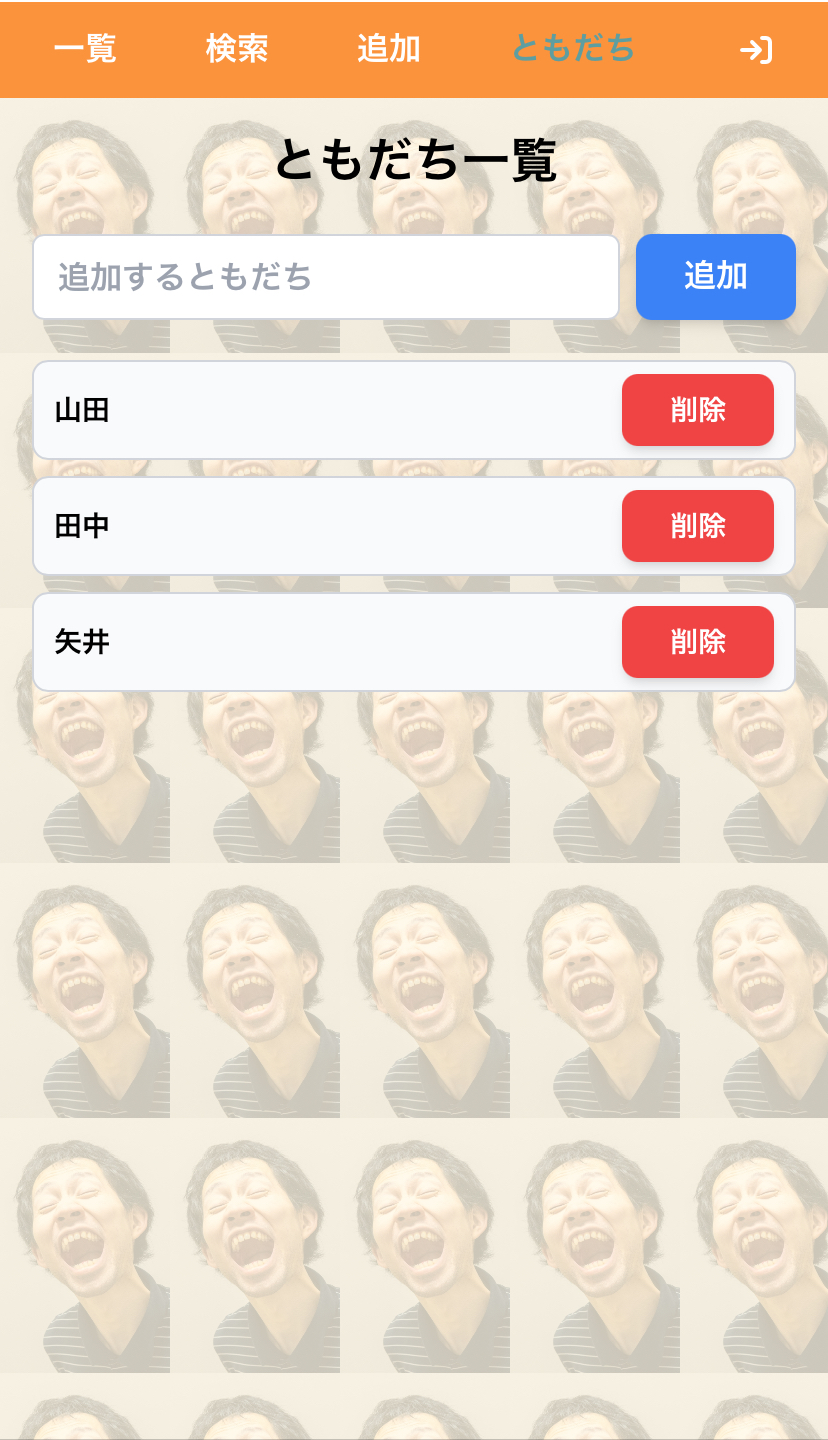
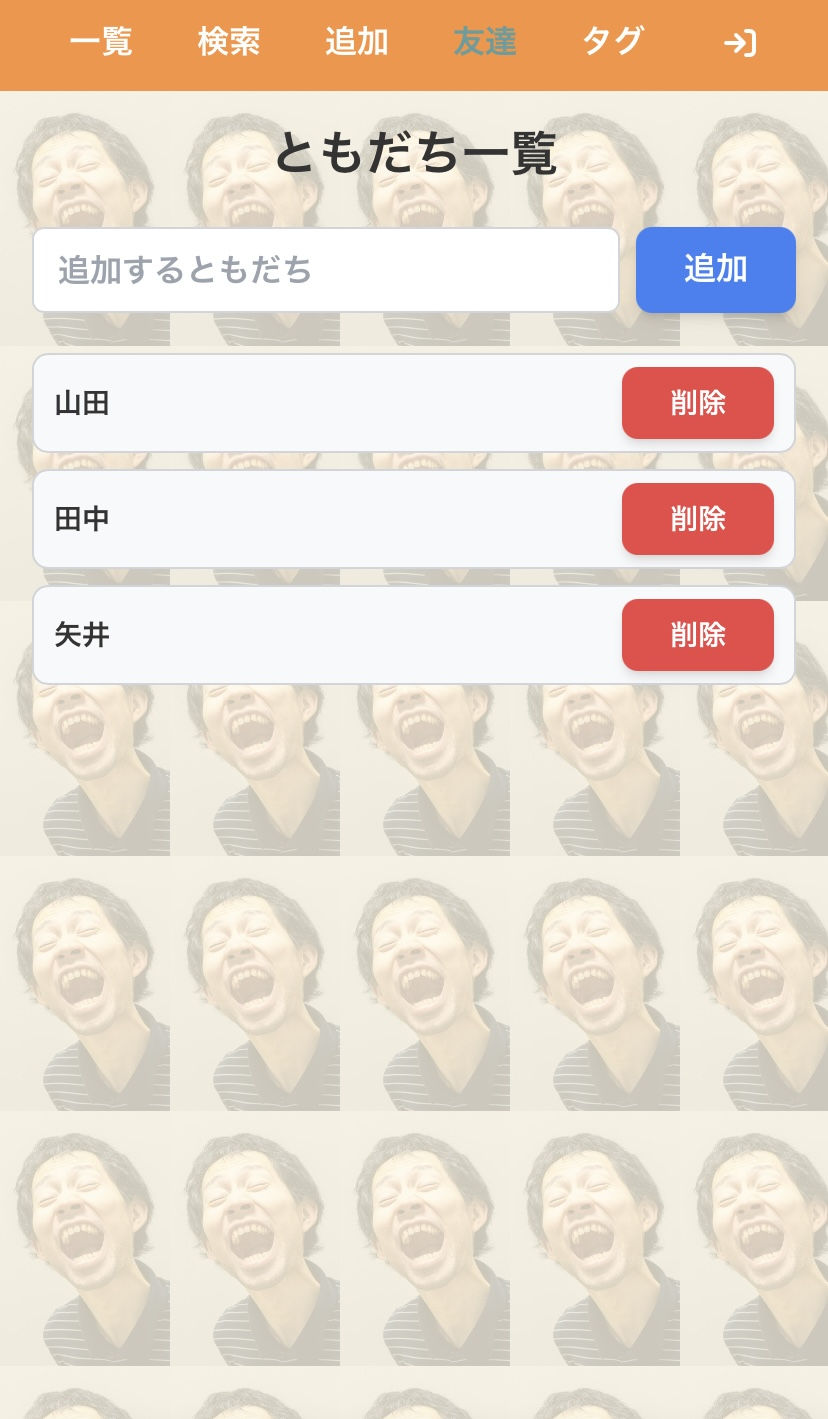
README編集

diff --git a/README.md b/README.md
@@ -36,11 +36,12 @@ https://episode-talk-management.web.app/
 
 ### 主な機能
 
-- Google アカウントによるログイン
+-　Google アカウント / ゲストによるログイン
 - エピソードトークの登録（タイトル・本文）
 - 「話した相手」の記録
 - 複数の友人を選択して、「まだ話していないエピソード」を検索
 - エピソードのおもしろさを評価（⭐）
+- タグによる検索機能
 
 <br />
 
@@ -76,7 +77,12 @@ https://episode-talk-management.web.app/
 | エピソードトーク検索画面 |　エピソードトーク編集画面 |
 | ---- | ---- |
 | ![エピソードトーク検索画面](/docs/img/search.jpg) | ![エピソードトーク編集画面](/docs/img/edit.jpg) |
-|　「まだ話していない友達」でフィルターをかけてエピソードトークを検索できます。 | エピソードトークを編集できます。話した友達と評価を選択できます。 |
+|　「まだ話していない友達」や「タグ」でフィルターをかけてエピソードトークを検索できます。 | エピソードトークを編集できます。話した友達と評価やタグを選択できます。 |
+
+| タグ画面 |　ログアウト編集画面 |
+| ---- | ---- |
+| ![タグ画面](/docs/img/tags.jpg) | ![ログアウト画面](/docs/img/logout.jpg) |
+|　「タグ」の追加や削除ができます。 | ログアウトできます。 |
 
 
 <br />
@@ -100,7 +106,7 @@ https://episode-talk-management.web.app/
 
 <!-- ## インフラ構成図 -->
 
-<!-- <br /> --> -->
+<!-- <br /> --> 
 
 ## 今後の展望
 
